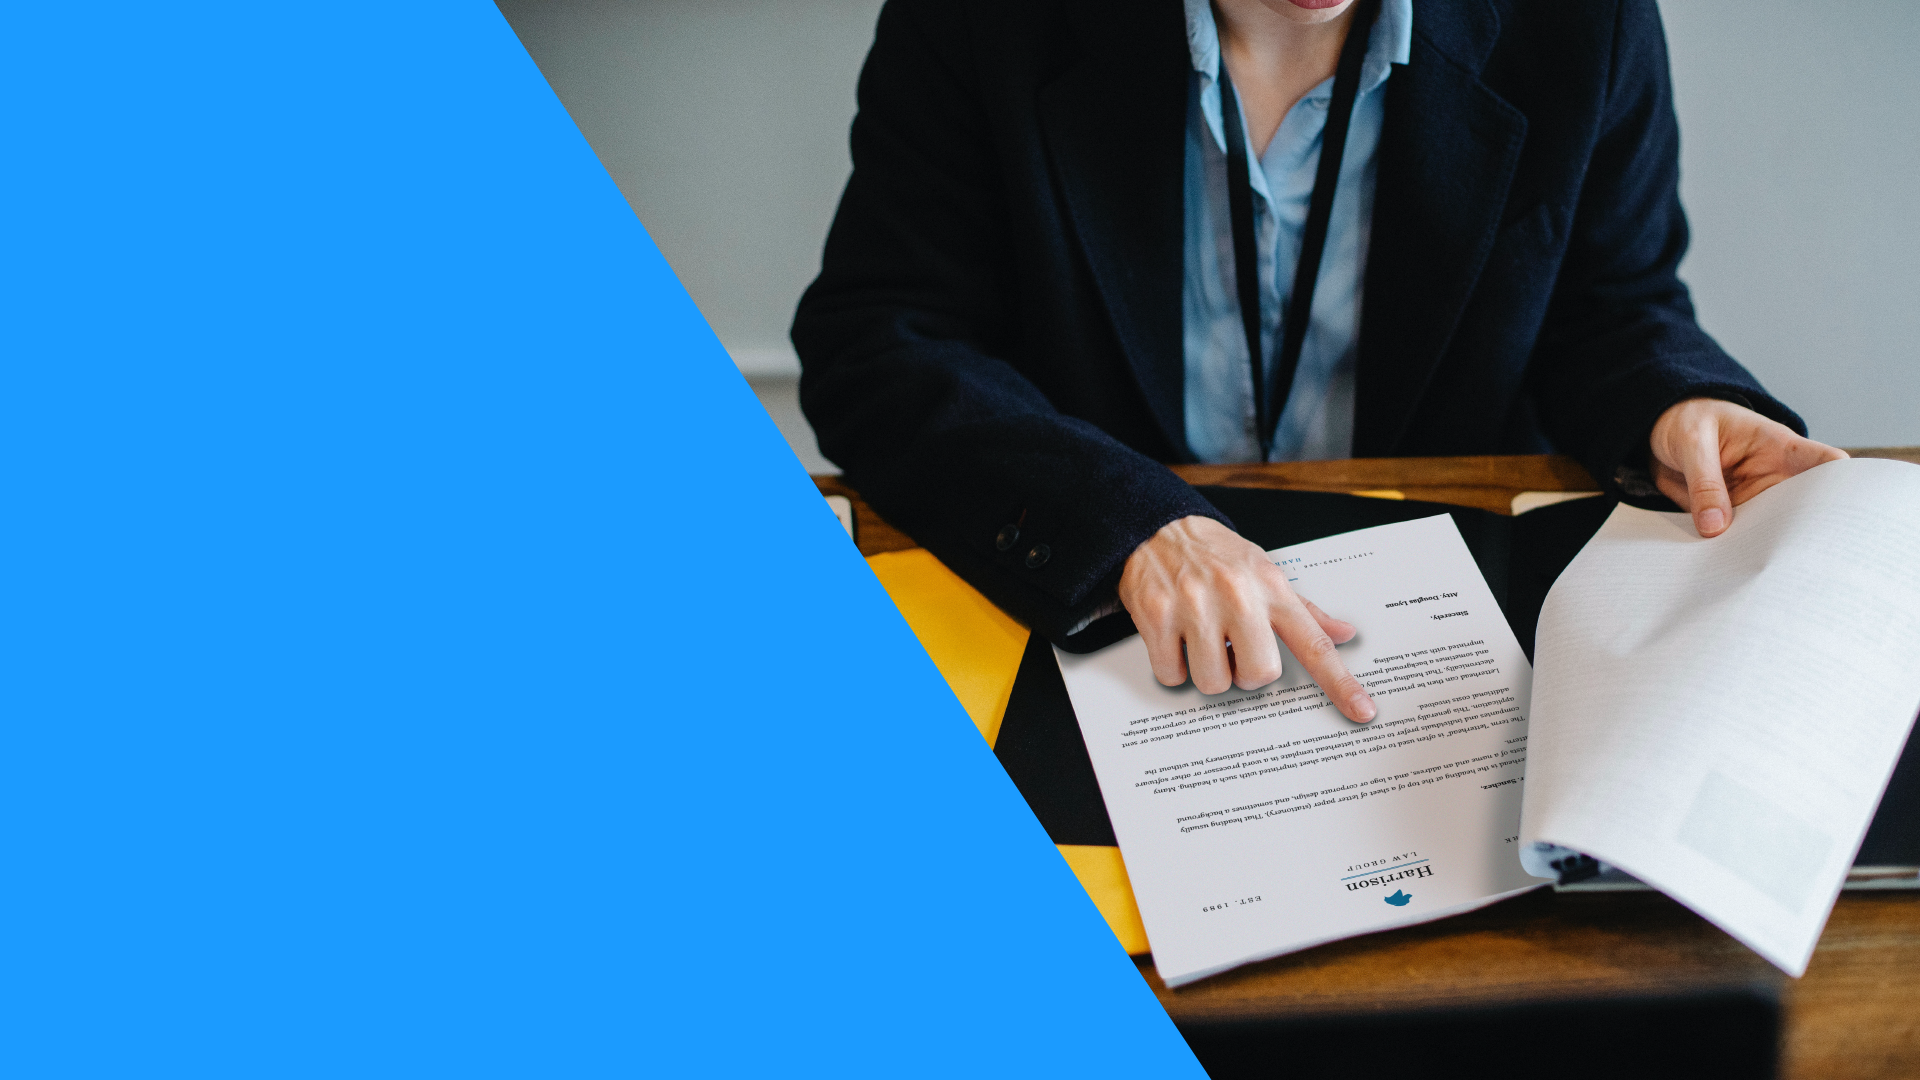
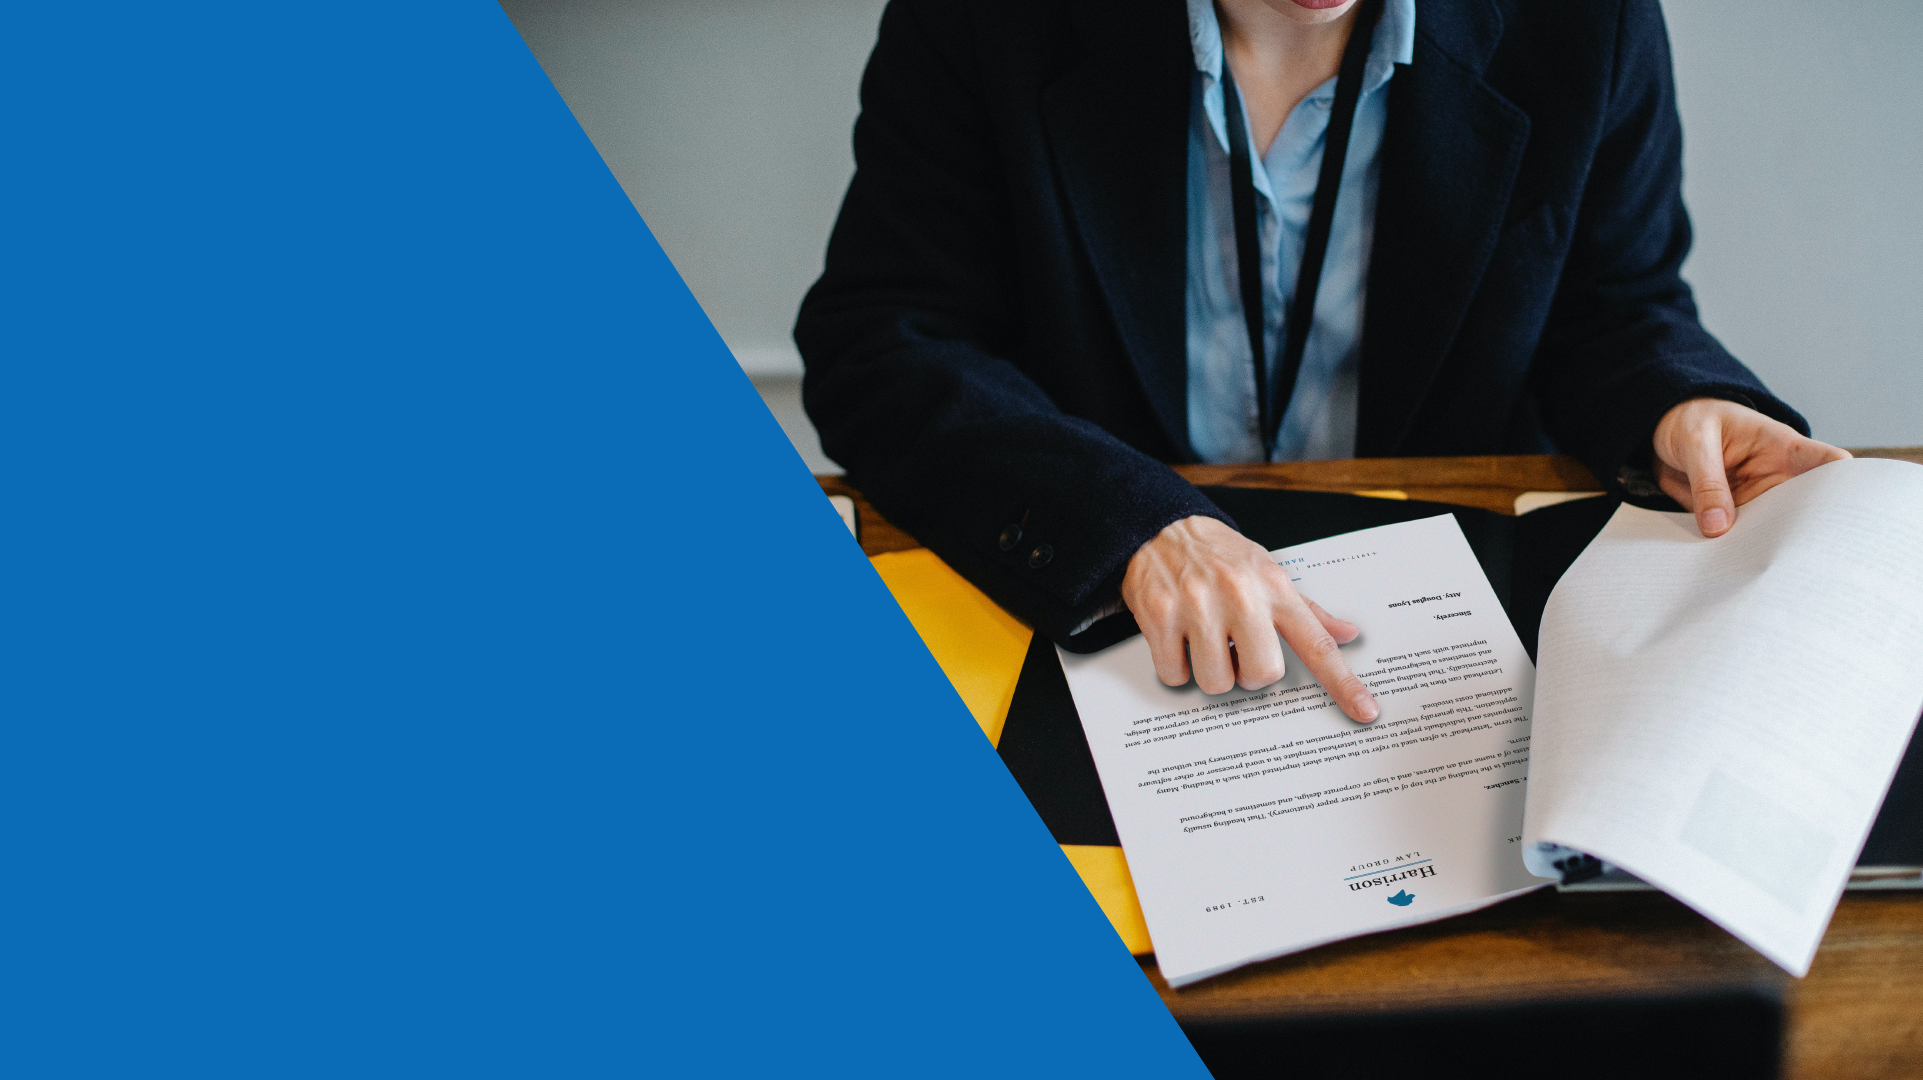
algunos arreglos

diff --git a/css/class.css b/css/class.css
@@ -18,11 +18,11 @@ body {
       padding: 0 50px;
       font-weight: bold; }
     body header nav .color {
-      color: #1b9bff;
+      color: #0a6bb6;
       font-size: 40px;
       margin-right: 10px; }
     body header nav .active, body header nav .anc:hover {
-      background: #1b9bff;
+      background: #0a6bb6;
       color: white;
       transition: .5s; }
     body header nav .checkbtn {
@@ -47,9 +47,9 @@ body {
           border-radius: 3px;
           text-transform: uppercase; }
   body main .section {
-    background: url(../img/back.png) no-repeat;
+    background: url(../../img/back.png) no-repeat;
     background-size: cover;
-    height: calc(100vh - 80px); }
+    height: calc(80vh - 80px); }
     body main .section .sub {
       width: 35%;
       color: white;
@@ -65,12 +65,12 @@ body {
         font-size: 1.2rem; }
       body main .section .sub .btn {
         cursor: pointer;
-        color: #1b9bff;
+        color: #0a6bb6;
         text-decoration: none;
-        width: 15rem;
+        width: 17rem;
         height: 4rem;
         border: none;
-        transform: translateY(-0.9rem);
+        transform: translateY(3rem);
         font-size: 1.2rem;
         font-weight: bold;
         border-radius: 50px;
@@ -82,13 +82,27 @@ body {
         border: solid 2px #fff;
         font-size: 1.4rem;
         transition: .5s; }
-      body main .section .sub .fle {
-        transform: translateX(0.5rem);
-        box-shadow: 2px 0px 20px black;
-        border-radius: 50px;
-        color: #fff;
-        margin-top: 50px;
-        font-size: 60px; }
+  body main .sub2 {
+    height: 150px;
+    display: flex;
+    justify-content: center;
+    align-items: center; }
+    body main .sub2 h2 {
+      font-size: 2.5rem;
+      color: #0a6bb6; }
+  body main .cont {
+    width: 100%;
+    height: 100%;
+    display: grid;
+    justify-content: center;
+    grid-template-columns: repeat(4, 25%);
+    grid-template-rows: repeat(2, 100%); }
+    body main .cont .subcont {
+      border: solid black 1px;
+      margin: 30px;
+      text-align: center; }
+      body main .cont .subcont .img {
+        width: 23rem; }
   @media (max-width: 1024px) {
     body header nav .active {
       background: white;
@@ -107,7 +121,7 @@ body {
       padding: 0 20px;
       font-weight: bold; }
     body header nav .color {
-      color: #1b9bff;
+      color: #0a6bb6;
       font-size: 35px;
       margin-right: 10px; }
     body header nav .checkbtn {
@@ -137,9 +151,10 @@ body {
           font-weight: bold;
           color: #fff; }
     body main .section {
-      background: url(../img/back.png) no-repeat;
+      background: url(../../img/back.png) no-repeat;
       background-size: cover;
-      height: calc(100vh - 80px); }
+      background-attachment: fixed;
+      height: calc(80vh - 80px); }
       body main .section .sub {
         width: 285px;
         color: white;
@@ -152,26 +167,27 @@ body {
         body main .section .sub .sub1 {
           font-size: 1rem; }
         body main .section .sub .btn {
-          color: #1b9bff;
+          color: #0a6bb6;
           text-decoration: none;
           width: 11rem;
           height: 3rem;
           border: none;
-          transform: translateY(-0.6rem);
+          transform: translateY(3rem);
           font-size: 0.9rem;
           font-weight: bold;
           box-shadow: 2px 0px 20px black;
           border-radius: 50px; }
         body main .section .sub .btn:hover {
           background-color: white;
-          color: #1b9bff;
-          border: solid 2px #1b9bff;
+          color: #0a6bb6;
+          border: solid 2px #0a6bb6;
           font-size: 0.9rem;
           transition: .5s; }
-        body main .section .sub .fle {
-          transform: translateX(0.5rem);
-          box-shadow: 2px 0px 20px black;
-          border-radius: 50px;
-          color: #fff;
-          margin-top: 45px;
-          font-size: 45px; } }
+    body main .sub2 {
+      height: 150px;
+      display: flex;
+      justify-content: center;
+      align-items: center; }
+      body main .sub2 h2 {
+        font-size: 1.5rem;
+        color: #0a6bb6; } }

diff --git a/scss/desktop/main.scss b/scss/desktop/main.scss
@@ -1,8 +1,8 @@
 main{
         .section{
-        background: url(../img/back.png) no-repeat;
+        background: url(../../img/back.png) no-repeat;
         background-size: cover;
-        height: calc(100vh - 80px);
+        height: calc(80vh - 80px);
 
         .sub{
             width: 35%;
@@ -24,12 +24,12 @@ main{
 
             .btn{
                 cursor: pointer;
-                color: #1b9bff;
+                color: #0a6bb6;
                 text-decoration: none;
-                width: 15rem;
+                width: 17rem;
                 height: 4rem;
                 border: none;
-                transform: translateY(-0.9rem);
+                transform: translateY(3rem);
                 font-size: 1.2rem;
                 font-weight: bold;
                 border-radius: 50px;
@@ -43,18 +43,38 @@ main{
                 border: solid 2px #fff;
                 font-size: 1.4rem;
                 transition:  .5s;
-            }
-
-            .fle{
-                transform: translateX(0.5rem);
-                box-shadow: 2px 0px 20px rgb(0, 0, 0);
-                border-radius: 50px;
-                color: #fff;
-                margin-top: 50px;
-                font-size: 60px;
-            }
-            
+            }        
         }
+    } 
+    
+    .sub2{
+      height: 150px;
+      display: flex;
+      justify-content: center;
+      align-items: center;
+      h2{
+        font-size: 2.5rem;
+        color: #0a6bb6;
+      }
     }
+
+    .cont{
+      width: 100%;
+      height: 100%;
+      display: grid;
+      justify-content: center;
+      grid-template-columns: repeat(4, 25%);
+      grid-template-rows: repeat(2, 100%);
+
+      .subcont{
+        border: solid black 1px;
+        margin: 30px;
+        text-align: center;
+        
+        .img{
+          width: 23rem;
+        }
   
+      }
+    }
 }

diff --git a/index.html b/index.html
@@ -14,6 +14,9 @@
     <!-- Link de mis estilos -->
     <link rel="stylesheet" href="css/class.css">
 
+    <!-- ===== Link Swiper's CSS ===== -->
+    <link rel="stylesheet" href="https://unpkg.com/swiper/swiper-bundle.min.css"/>
+
     <script src="https://kit.fontawesome.com/a0d16abc5f.js" crossorigin="anonymous"></script>
 </head>
 <body>
@@ -38,12 +41,26 @@
         <div class="sub">
         <h1>Tus trámites más fáciles y rápidos</h1>
         <p class="sub1">Realice sus trámites online con nosotros de manera más ágil, con personas especializadas para cada uno de ellos. Sin riesgos y con atención al cliente para sacar todas sus dudas. </p>
-        <a href="pages/tramite.html"><button class="btn">Comenzá tu trámite</button><i class="fas fa-chevron-circle-right fle"></i></a>
+        <a href="pages/tramite.html"><button class="btn">Comenzá tu trámite</button></a>
       </div>
       </section>
+        <div class="sub2">
+          <h2>Te ofrecemos estos Servicios</h2>
+        </div>
+        <div class="cont">
+          <div class="subcont"><img class="img" src="img/ceta.jpeg" alt="Certificado de transferencia automotor"> 
+            <h3>$1399</h3>
+              <div>
+                <p>CETA</p>
+                <p>Certificado de transferencia automotor, obligatorio para vehículos mayores a $800.000</p>
+              </div>
+          </div>
+          <!-- <div class="subcont"><img class="img" src="img/08 digital.jpeg" alt="08 digital"></div>
+          <div class="subcont"><img class="img" src="img/cedula azul.jpg" alt="Cedula Azul"></div>
+          <div class="subcont"><img class="img" src="img/informe de dominio.jpeg" alt="Informe de Dominio"></div> -->
+        </div>
       <section>
-        <h1>Servicios</h1>
-      </section>
+        </section>
     </main>
 </body>
 </html>

diff --git a/scss/phone/main.scss b/scss/phone/main.scss
@@ -1,8 +1,9 @@
 main{
     .section{
-        background: url(../img/back.png) no-repeat;
+        background: url(../../img/back.png) no-repeat;
         background-size: cover;
-        height: calc(100vh - 80px);
+        background-attachment: fixed;
+        height: calc(80vh - 80px);
 
         .sub{
             width: 285px;
@@ -21,12 +22,12 @@ main{
             }
 
             .btn{
-                color: #1b9bff;
+                color: #0a6bb6;
                 text-decoration: none;
                 width: 11rem;
                 height: 3rem;
                 border: none;
-                transform: translateY(-0.6rem);
+                transform: translateY(3rem);
                 font-size: 0.9rem;
                 font-weight: bold;
                 box-shadow: 2px 0px 20px rgb(0, 0, 0);
@@ -35,20 +36,21 @@ main{
             
             .btn:hover{
                 background-color: rgb(255, 255, 255);
-                color: #1b9bff;
-                border: solid 2px #1b9bff;
+                color: #0a6bb6;
+                border: solid 2px #0a6bb6;
                 font-size: 0.9rem;
                 transition:  .5s;
             }
-
-            .fle{
-                transform: translateX(0.5rem);
-                box-shadow: 2px 0px 20px rgb(0, 0, 0);
-                border-radius: 50px;
-                color: #fff;
-                margin-top: 45px;
-                font-size: 45px;
-            }
         }
-    }   
+    } 
+    .sub2{
+        height: 150px;
+        display: flex;
+        justify-content: center;
+        align-items: center;
+        h2{
+          font-size: 1.5rem;
+          color: #0a6bb6;
+        }
+      }  
 }

diff --git a/scss/desktop/header.scss b/scss/desktop/header.scss
@@ -15,13 +15,13 @@ header{
         }
 
         .color{
-            color: #1b9bff;
+            color: #0a6bb6;
             font-size: 40px;
             margin-right: 10px;
         }
         
         .active,.anc:hover{
-            background: #1b9bff;
+            background: #0a6bb6;
             color: white;
             transition:  .5s;
         }

diff --git a/scss/phone/header.scss b/scss/phone/header.scss
@@ -25,7 +25,7 @@ header{
         }
 
         .color{
-            color: #1b9bff;
+            color: #0a6bb6;
             font-size: 35px;
             margin-right: 10px;
         }
